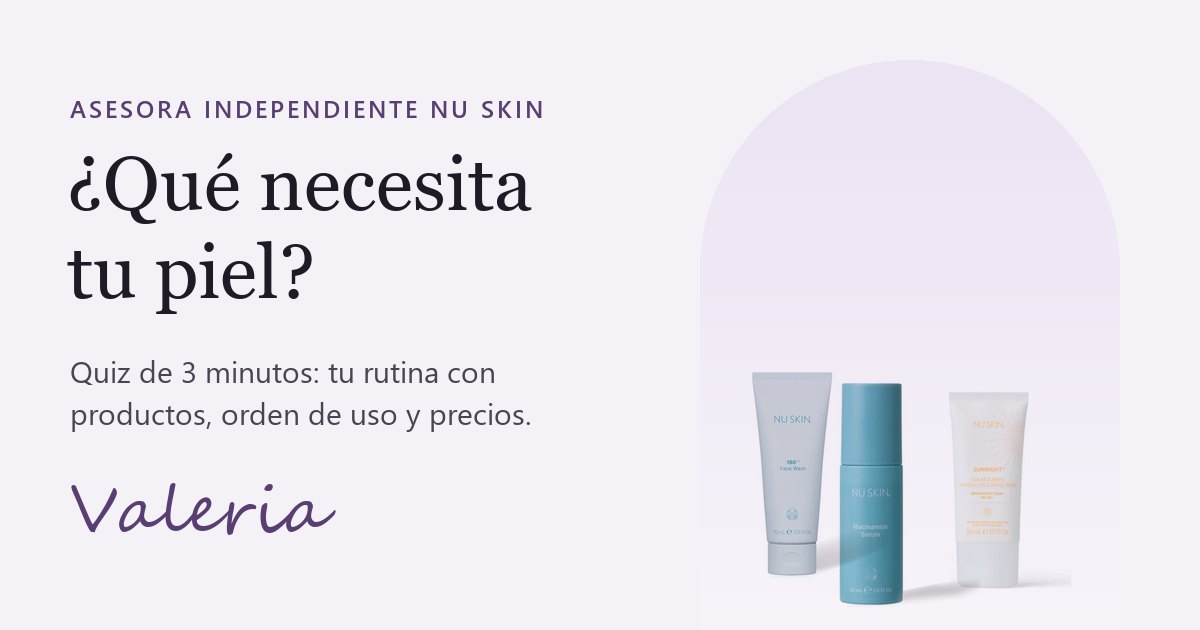
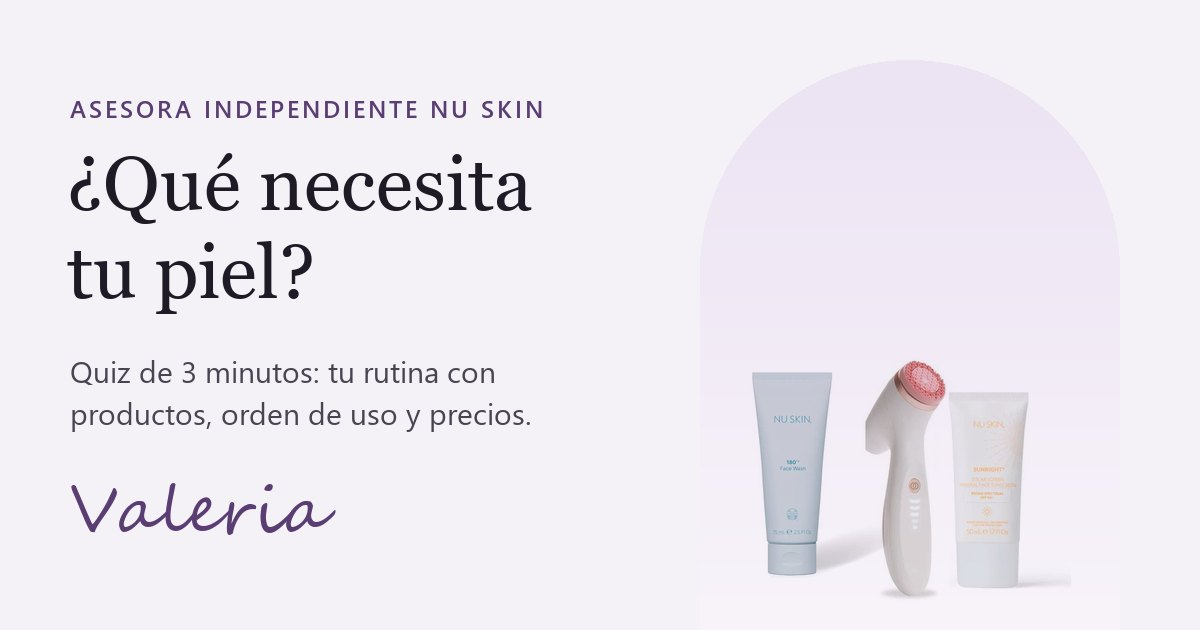
LumiSpa rosa en la bienvenida y en la tarjeta de vista previa

Changed region(s): [[0.6783, 0.573, 0.8017, 0.9651]]

diff --git a/index.html b/index.html
@@ -250,7 +250,7 @@ footer p{margin:0 0 8px;max-width:76ch}
     <div class="hero-art" aria-hidden="true">
       <div class="arch"></div>
       <img class="p1" src="img/face180.jpg" alt="">
-      <img class="p2" src="img/niacin.jpg" alt="">
+      <img class="p2" src="img/lumispa-rosa.jpg" alt="">
       <img class="p3" src="img/sunright.jpg" alt="">
     </div>
   </section>
